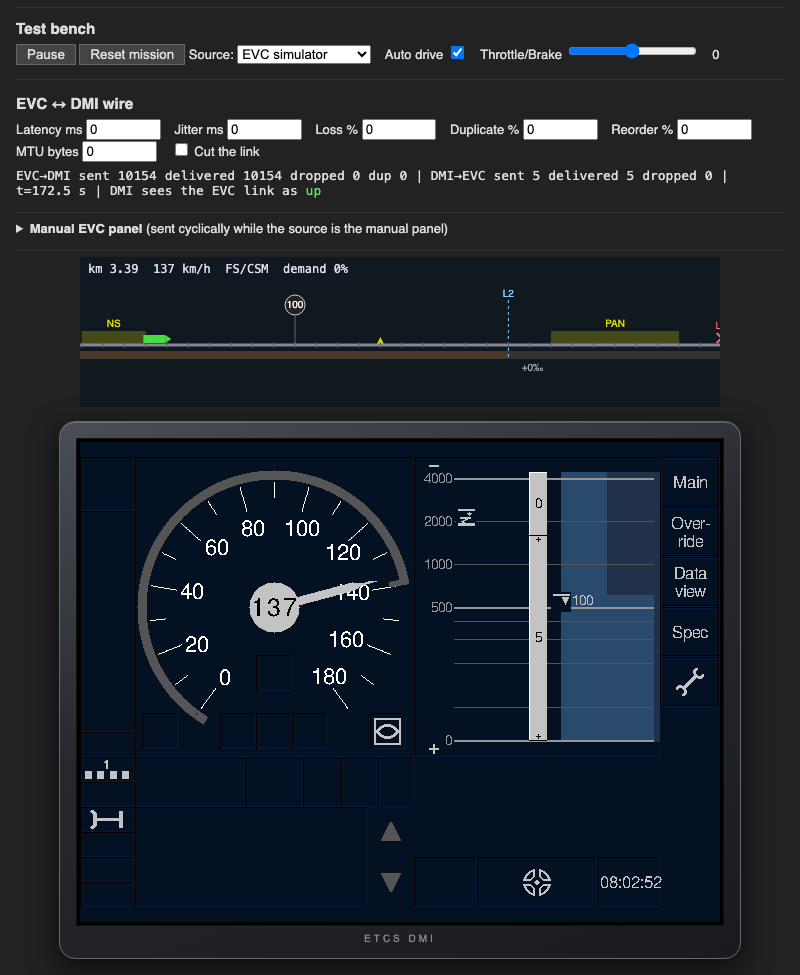
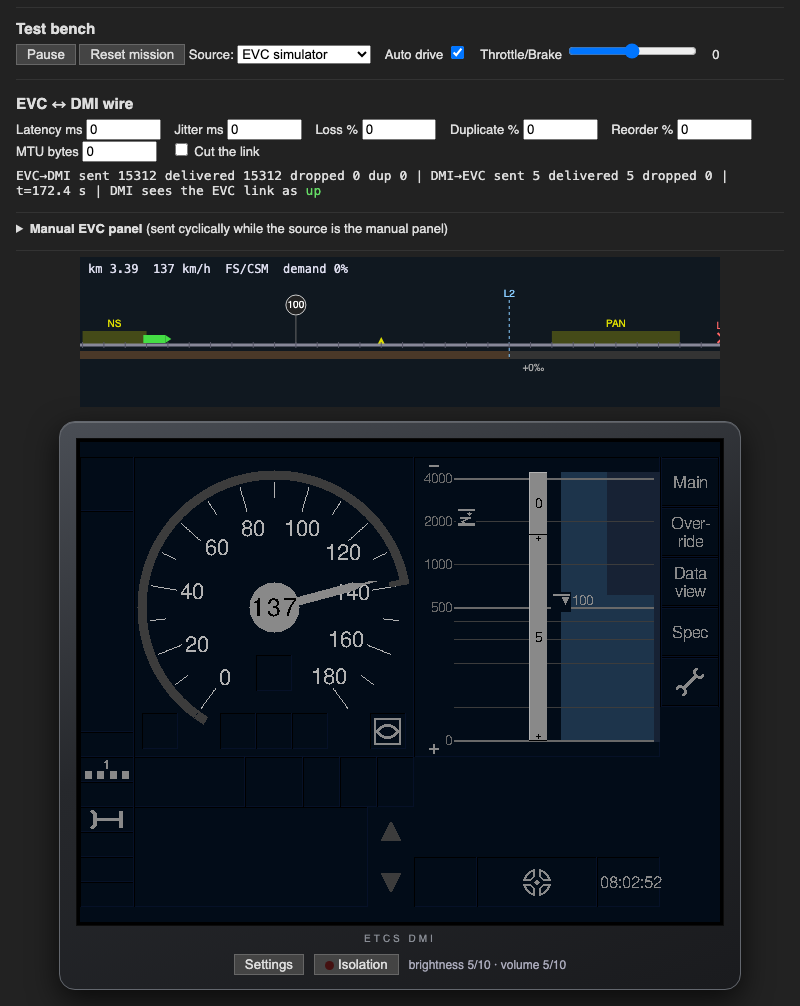
docs: P3 closed; outcomes, choices and open points of the six branches; README status and bench screenshot

diff --git a/doc/AUDIT-2026-09.md b/doc/AUDIT-2026-09.md
@@ -221,9 +221,14 @@ Merges of `p3/settings-hw` and `p3/vbc-version` from 7147fda, then
 | GEN-10 | Fixed, the other way round from the audit's expectation: 5.6.1.1 requires the DMI to offer a means to isolate (form and location implementation dependent, 5.6.1.1.1; SUBSET-026 4.7.1.3 and 4.7.2). It is the delay-type desk input 2 (hold 2 s, 5.3.2.6.6) sending driver action 20 in every mode and over every window; B7 shows nothing in IS (8.2.3.1.2 lists no IS symbol), the isolation device shows the mode (8.2.3.1.2.2) through the isolated flag of `MSG_SETTINGS`. The simulator's isolation releases the brakes and ignores every further request (4.4.3.1.3). Open: a failed DMI (`Enter_Failure`) loses the isolation key, which a real train would hard-wire. |
 | WIN-12 (VBC, version) | Fixed. Set VBC and Remove VBC (11.3.12, 11.3.13) on the total grid with a numeric keyboard and the 24 bit range (T_VBC 8 bits, SUBSET-026 7.5.1.154.1); the validation windows 11.4.2 / 11.4.3 with 'Yes' proposed; Table 54 S5-S7 and 11.7.1.6.2 (the code goes out only with 'Yes', `MSG_DRIVER_DATA` kinds 8 / 9); Table 36 #4-#6 with the on-board's storage bits. System version window (11.5.2) fed by `MSG_SYSTEM_VERSION`; the data view shows the radio network type, GSM-R network ID, RBC ID, RBC phone number (11.5.1.6.1) and the VBC codes of `MSG_VBC_LIST` over as many windows as needed. Choices: Remove VBC has a numeric keyboard (11.3.13.6, Figure 129), `MSG_VBC_LIST` only feeds the data view; VBC codes are grouped per 5.1.5.1 although Figure 134 shows them ungrouped; [Close] of a VBC validation window stops the process (Table 54 has no step for it); the RBC ID / phone appear in the data view only while the driver's last choice was to enter them. Open: Table 48 has no row for the VBC and System version windows, so 11.7.1.7 cannot stop them. |
 | SDI-8 | Fixed. The National System name comes as an optional tail of `MSG_MODE_LEVEL` (name_len + Latin-1, at most 10); C8 shows it in place of LE02 in a 48x19 area (size 12, else 10, else cut), C1 shows LE08 / LE09 as the arrow and the name in grey / yellow, broken after '/', '-', '+' or a space when too wide (LE08a). Choice: size 10 is the "minimum size" of 8.2.3.2.10; one name serves the current and the announced NTC level; the Level window key still reads 'NTC' (11.3.2.6 is NTC scope). |
-| GEN-2 | LANGUAGE_ROW |
+| GEN-2 | Fixed. `DMI_Texts` holds the 127 fixed texts the DMI draws (titles, the labels of Tables 33-37, field and echo labels, keys, "[title] entry complete?", the Table 45 / 46 items, the chapter 15 texts) as ids with one table per language, English and German, as aliased constants. The Language window (11.3.6, Figure 119, own names 11.3.6.4) with Table 36 #1, its Table 48 row and Table 54 S2; the selection takes effect at once (displayed system status messages are re-texted in place without a second Sinfo, 15.1.1.4.2) and is kept across a reset; `MSG_DRIVER_DATA` kind 10 reports the ISO 639-1 code, since SUBSET-026 A.3.4 lists the language as data stored on-board. Values stay untranslated (PASS 1, G1, FRMCS, NTC, numbers; NA21 is a bitmap). German wording chosen to fit the existing widths ("Höchstgeschw. (km/h)", "Tf-Nummer"); a scenario checks every text of both languages against its button, key, label, title and data part. dmi.wasm shrank by 19.6 kB (menu labels are ids now); native ROM grows by about 14 kB on the 64 bit host. |
 
-Verification: VERIFICATION_LINE
+Verification at 5a87e28: `obj/dmi_test` 1433 checks (243 goldens), 0
+failures; `obj/dmi_fuzz` seeds 1, 7 and 42 x 60000 clean; `smoke.js`
+identical digests; `fuzz.js` seeds 1 and 7 x 20000 without trap. Every
+new golden was looked at before it was recorded; the re-recorded ones
+(Main, Special and Settings windows, `hw_desk_settings`, `vbc_settings`)
+changed because those windows gained buttons or symbols.
 
 New open points from P3:
 
@@ -251,7 +256,14 @@ New open points from P3:
   not offered; the desk input numbers are left free for them.
 - The audit's simulator note on "Level crossing not protected" was out
   of date: the text was already gone at b70fff7.
-LANGUAGE_POINTS
+- The on-board owns the stored language (A.3.4): after an EVC restart
+  the DMI's and the EVC's language can differ until the driver selects
+  again; an EVC report of the stored language would close it. Fixed and
+  plain text messages already displayed keep the text the EVC sent.
+  Hungarian needs ISO 8859-2 glyphs the fonts lack. The German wording
+  has had no translator review.
+- The simulator still ignores the values of the driver id and TRN, and
+  its RBC and radio network are 2 s timers.
 
 ## Known issues
 

diff --git a/README.md b/README.md
@@ -50,7 +50,7 @@ The rules that have proven necessary so far:
   claims, including requirements that do not exist; [PLAN.md](PLAN.md)
   §1 records the check claim by claim, and a verified plan replaced it.
 - **Behaviour is pinned by executable checks.** The regression
-  runner makes 686 checks: 138 rendered screens compared with golden
+  runner makes 1433 checks: 243 rendered screens compared with golden
   frames, sound events, and a complete simulated mission. The
   WebAssembly build has to render the same pixels as the native one. A
   change that alters a screen fails a check, and a person has to look at
@@ -68,12 +68,16 @@ claims conformance with EN 50128 / EN 50716.
 The default window (speed dial, supervision colours, planning area,
 track conditions, text messages, acknowledgements, sounds), the sub-level
 windows with the chapter 10 data entry (numeric, alphanumeric and
-dedicated keyboards, data checks, validation, data view), touch input,
-and the EVC/track/train simulator are implemented. Still open: the ATO
-displays, the chapter 15 message catalogue, the radio and language
-windows and the optimisation for the embedded memory budget. The national systems
-part of the specification (NTC, chapters 9 and 12) and the soft-key
-variant of the layout are out of scope.
+dedicated keyboards, data checks, validation, data view), the radio,
+VBC, ATO selector, System version and Language windows (English and
+German), the ATO displays of chapter 8.5, the chapter 15 message
+catalogue, the desk inputs for Settings and isolation, touch input, and
+the EVC/track/train simulator (with an ATO on-board, shunting,
+Supervised Manoeuvre and a stand-in RBC) are implemented. Still open:
+the pixel conformance pass (P4 of the plan) and the optimisation for the
+embedded memory budget. The national systems part of the specification
+(NTC, chapters 9 and 12) and the soft-key variant of the layout are out
+of scope.
 
 The code was audited against the specification clause by clause in
 September 2026: [doc/AUDIT-2026-09.md](doc/AUDIT-2026-09.md) records
